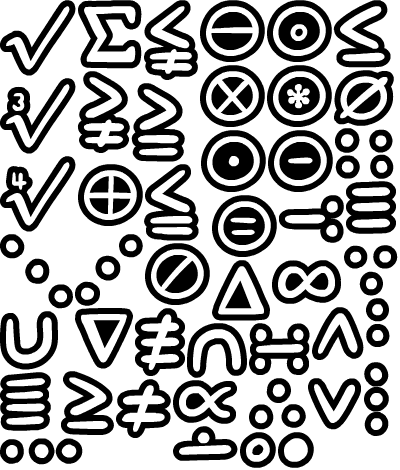
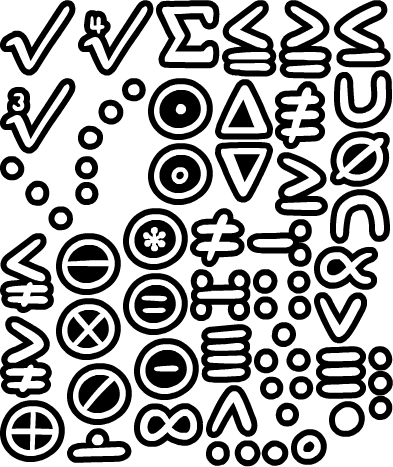
Fix `mathematical-operators` glyph indexes being off by 20.

diff --git a/changelog.md b/changelog.md
@@ -38,6 +38,9 @@ Unicode sheets referenced in this file can be found here: https://www.unicode.or
     - Adding new parameters will be easier this way.
 - Alphabet Debug now supports Middle Mouse button for camera movement and Mouse Wheel for zooming.
 
+### Fixed
+- Fixed `mathematical-operators` glyph indexes being off by 20.
+
 ## [2.0.0] - 26/03/2026
 
 ### Added
